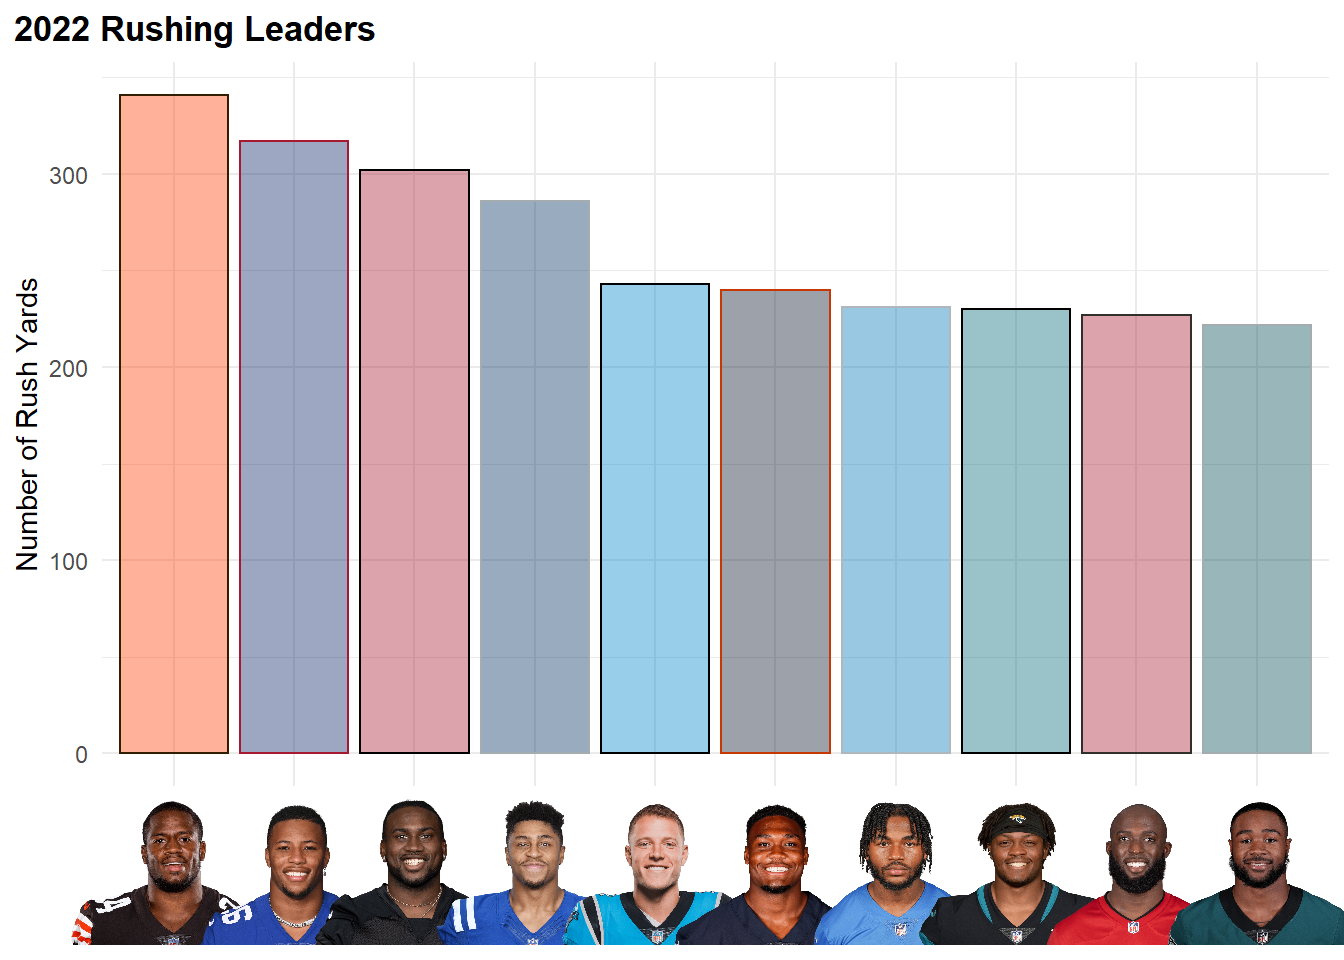
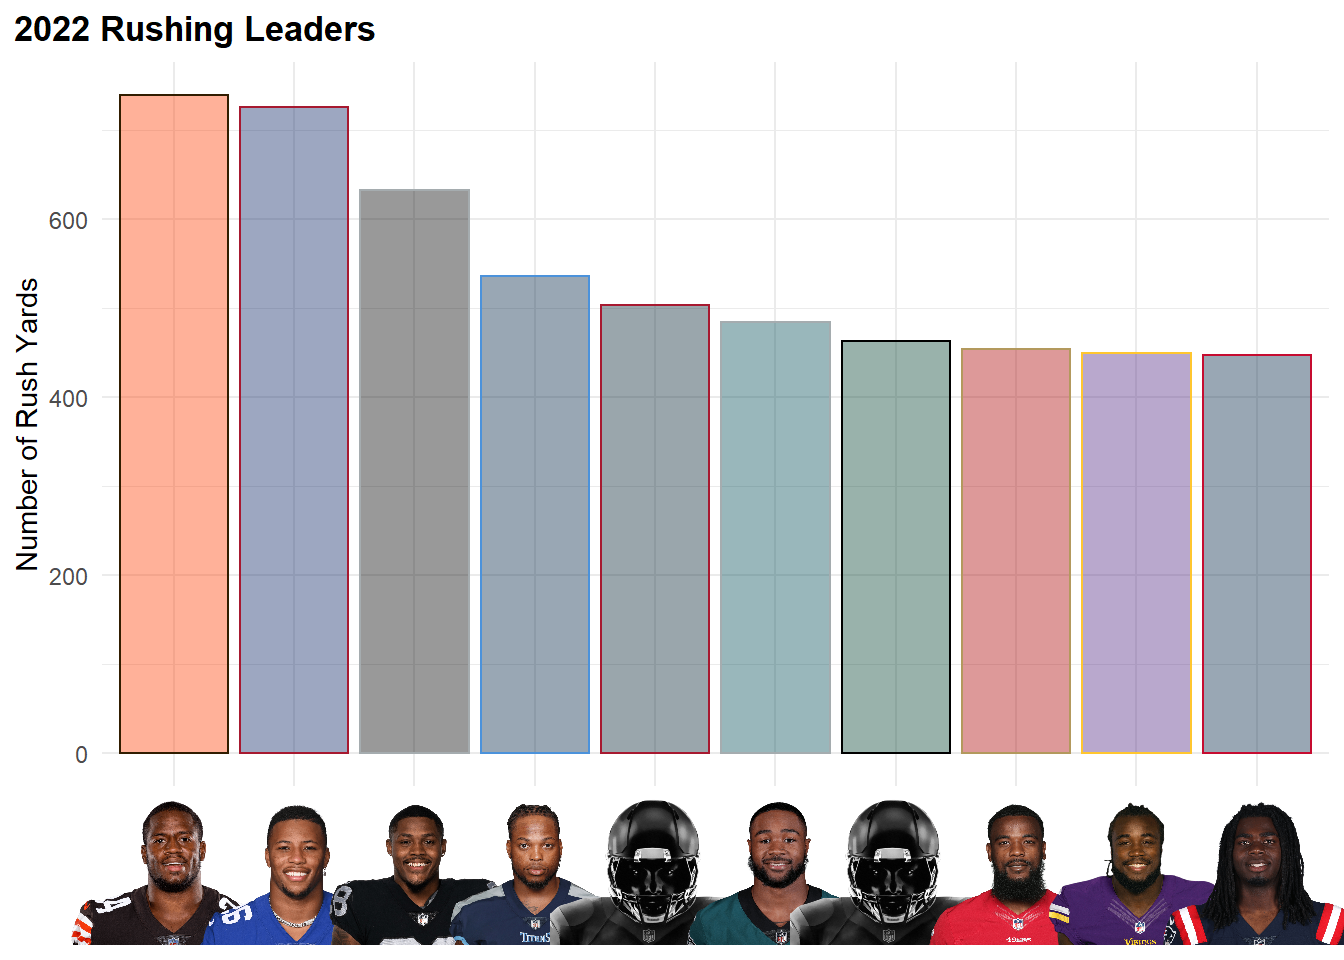
added offense and defense page.
updated images for RB and QB pages

diff --git a/_site/Defense_Report.html b/_site/Defense_Report.html
@@ -7,7 +7,7 @@
 <meta name="viewport" content="width=device-width, initial-scale=1.0, user-scalable=yes">
 
 
-<title>Best Ball Report - RB Page</title>
+<title>Best Ball Report - Defense Report</title>
 <style>
 code{white-space: pre-wrap;}
 span.smallcaps{font-variant: small-caps;}
@@ -89,13 +89,13 @@ ul.task-list li input[type="checkbox"] {
     <a class="nav-link" href="./QBpage.html">QB page</a>
   </li>  
   <li class="nav-item">
-    <a class="nav-link active" href="./RB.html" aria-current="page">RB Page</a>
+    <a class="nav-link" href="./RB.html">RB Page</a>
   </li>  
   <li class="nav-item">
     <a class="nav-link" href="./Offense_Report.html">Offense Report</a>
   </li>  
   <li class="nav-item">
-    <a class="nav-link" href="./Defense_Report.html">Defense Report</a>
+    <a class="nav-link active" href="./Defense_Report.html" aria-current="page">Defense Report</a>
   </li>  
 </ul>
               <div id="quarto-search" class="" title="Search"></div>
@@ -108,24 +108,14 @@ ul.task-list li input[type="checkbox"] {
 <!-- sidebar -->
 <!-- margin-sidebar -->
     <div id="quarto-margin-sidebar" class="sidebar margin-sidebar">
-        <nav id="TOC" role="doc-toc" class="toc-active">
-    <h2 id="toc-title">On this page</h2>
-   
-  <ul>
-  <li><a href="#running-back-page" id="toc-running-back-page" class="nav-link active" data-scroll-target="#running-back-page">Running Back Page</a>
-  <ul class="collapse">
-  <li><a href="#rb-rush-attempt-leaders" id="toc-rb-rush-attempt-leaders" class="nav-link" data-scroll-target="#rb-rush-attempt-leaders">RB rush attempt Leaders</a></li>
-  <li><a href="#shared-backfields" id="toc-shared-backfields" class="nav-link" data-scroll-target="#shared-backfields">Shared Backfields</a></li>
-  </ul></li>
-  </ul>
-</nav>
+        
     </div>
 <!-- main -->
 <main class="content" id="quarto-document-content">
 
 <header id="title-block-header" class="quarto-title-block default">
 <div class="quarto-title">
-<h1 class="title">RB Page</h1>
+<h1 class="title">Defense Report</h1>
 </div>
 
 
@@ -139,10 +129,6 @@ ul.task-list li input[type="checkbox"] {
 
 </header>
 
-<section id="running-back-page" class="level1">
-<h1>Running Back Page</h1>
-<section id="rb-rush-attempt-leaders" class="level2">
-<h2 class="anchored" data-anchor-id="rb-rush-attempt-leaders">RB rush attempt Leaders</h2>
 <div class="cell">
 
 </div>
@@ -150,22 +136,14 @@ ul.task-list li input[type="checkbox"] {
 <div class="cell-output-display">
 <div class="quarto-figure quarto-figure-center">
 <figure class="figure">
-<p><img src="RB_files/figure-html/Rush%20Attempts-1.png" class="img-fluid figure-img" width="672"></p>
-<p></p><figcaption class="figure-caption">Top 10 RB Rush Yards.</figcaption><p></p>
+<p><img src="Defense_Report_files/figure-html/Defense%20Concedeing%20TDs%20by%20Play%20Type-1.png" class="img-fluid figure-img" width="672"></p>
+<p></p><figcaption class="figure-caption">Play Types of how Defenses are being scored on.</figcaption><p></p>
 </figure>
 </div>
 </div>
 </div>
-</section>
-<section id="shared-backfields" class="level2">
-<h2 class="anchored" data-anchor-id="shared-backfields">Shared Backfields</h2>
-<div class="cell">
-
-</div>
 
 
-</section>
-</section>
 
 </main> <!-- /main -->
 <script id="quarto-html-after-body" type="application/javascript">

diff --git a/_site/Offense_Report.html b/_site/Offense_Report.html
@@ -7,7 +7,7 @@
 <meta name="viewport" content="width=device-width, initial-scale=1.0, user-scalable=yes">
 
 
-<title>Best Ball Report - RB Page</title>
+<title>Best Ball Report - Offense Report</title>
 <style>
 code{white-space: pre-wrap;}
 span.smallcaps{font-variant: small-caps;}
@@ -89,10 +89,10 @@ ul.task-list li input[type="checkbox"] {
     <a class="nav-link" href="./QBpage.html">QB page</a>
   </li>  
   <li class="nav-item">
-    <a class="nav-link active" href="./RB.html" aria-current="page">RB Page</a>
+    <a class="nav-link" href="./RB.html">RB Page</a>
   </li>  
   <li class="nav-item">
-    <a class="nav-link" href="./Offense_Report.html">Offense Report</a>
+    <a class="nav-link active" href="./Offense_Report.html" aria-current="page">Offense Report</a>
   </li>  
   <li class="nav-item">
     <a class="nav-link" href="./Defense_Report.html">Defense Report</a>
@@ -108,24 +108,14 @@ ul.task-list li input[type="checkbox"] {
 <!-- sidebar -->
 <!-- margin-sidebar -->
     <div id="quarto-margin-sidebar" class="sidebar margin-sidebar">
-        <nav id="TOC" role="doc-toc" class="toc-active">
-    <h2 id="toc-title">On this page</h2>
-   
-  <ul>
-  <li><a href="#running-back-page" id="toc-running-back-page" class="nav-link active" data-scroll-target="#running-back-page">Running Back Page</a>
-  <ul class="collapse">
-  <li><a href="#rb-rush-attempt-leaders" id="toc-rb-rush-attempt-leaders" class="nav-link" data-scroll-target="#rb-rush-attempt-leaders">RB rush attempt Leaders</a></li>
-  <li><a href="#shared-backfields" id="toc-shared-backfields" class="nav-link" data-scroll-target="#shared-backfields">Shared Backfields</a></li>
-  </ul></li>
-  </ul>
-</nav>
+        
     </div>
 <!-- main -->
 <main class="content" id="quarto-document-content">
 
 <header id="title-block-header" class="quarto-title-block default">
 <div class="quarto-title">
-<h1 class="title">RB Page</h1>
+<h1 class="title">Offense Report</h1>
 </div>
 
 
@@ -139,10 +129,6 @@ ul.task-list li input[type="checkbox"] {
 
 </header>
 
-<section id="running-back-page" class="level1">
-<h1>Running Back Page</h1>
-<section id="rb-rush-attempt-leaders" class="level2">
-<h2 class="anchored" data-anchor-id="rb-rush-attempt-leaders">RB rush attempt Leaders</h2>
 <div class="cell">
 
 </div>
@@ -150,22 +136,14 @@ ul.task-list li input[type="checkbox"] {
 <div class="cell-output-display">
 <div class="quarto-figure quarto-figure-center">
 <figure class="figure">
-<p><img src="RB_files/figure-html/Rush%20Attempts-1.png" class="img-fluid figure-img" width="672"></p>
-<p></p><figcaption class="figure-caption">Top 10 RB Rush Yards.</figcaption><p></p>
+<p><img src="Offense_Report_files/figure-html/Teams%20Pass%20and%20Rush%20Ratio-1.png" class="img-fluid figure-img" width="672"></p>
+<p></p><figcaption class="figure-caption">Pass and Rush Ratios.</figcaption><p></p>
 </figure>
 </div>
 </div>
 </div>
-</section>
-<section id="shared-backfields" class="level2">
-<h2 class="anchored" data-anchor-id="shared-backfields">Shared Backfields</h2>
-<div class="cell">
-
-</div>
 
 
-</section>
-</section>
 
 </main> <!-- /main -->
 <script id="quarto-html-after-body" type="application/javascript">

diff --git a/_site/QBpage.html b/_site/QBpage.html
@@ -91,6 +91,12 @@ ul.task-list li input[type="checkbox"] {
   <li class="nav-item">
     <a class="nav-link" href="./RB.html">RB Page</a>
   </li>  
+  <li class="nav-item">
+    <a class="nav-link" href="./Offense_Report.html">Offense Report</a>
+  </li>  
+  <li class="nav-item">
+    <a class="nav-link" href="./Defense_Report.html">Defense Report</a>
+  </li>  
 </ul>
               <div id="quarto-search" class="" title="Search"></div>
           </div> <!-- /navcollapse -->

diff --git a/_site/about.html b/_site/about.html
@@ -154,6 +154,9 @@ code span.wa { color: #60a0b0; font-weight: bold; font-style: italic; } /* Warni
   <li class="nav-item">
     <a class="nav-link" href="./RB.html">RB Page</a>
   </li>  
+  <li class="nav-item">
+    <a class="nav-link" href="./Offense_Report.html">Offense Report</a>
+  </li>  
 </ul>
               <div id="quarto-search" class="" title="Search"></div>
           </div> <!-- /navcollapse -->
